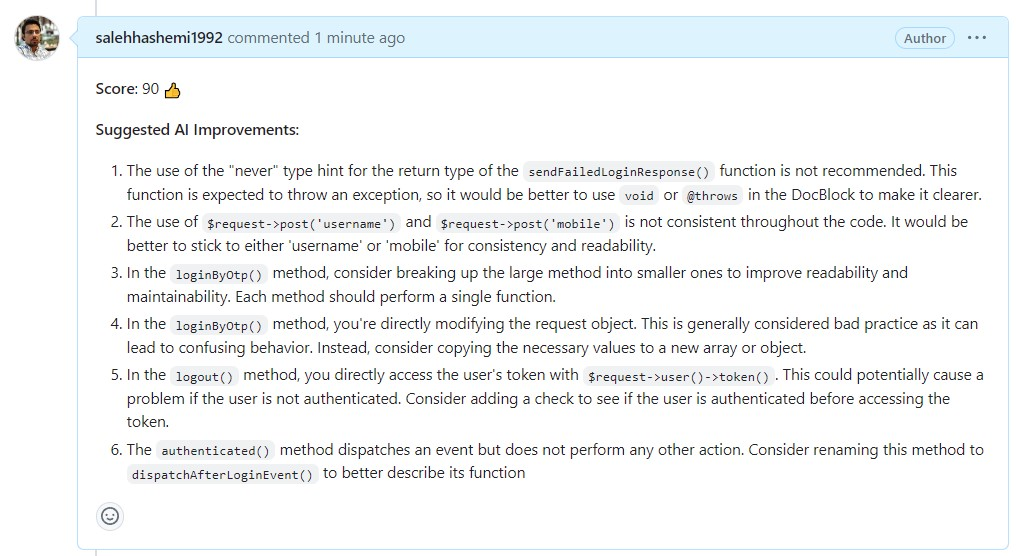
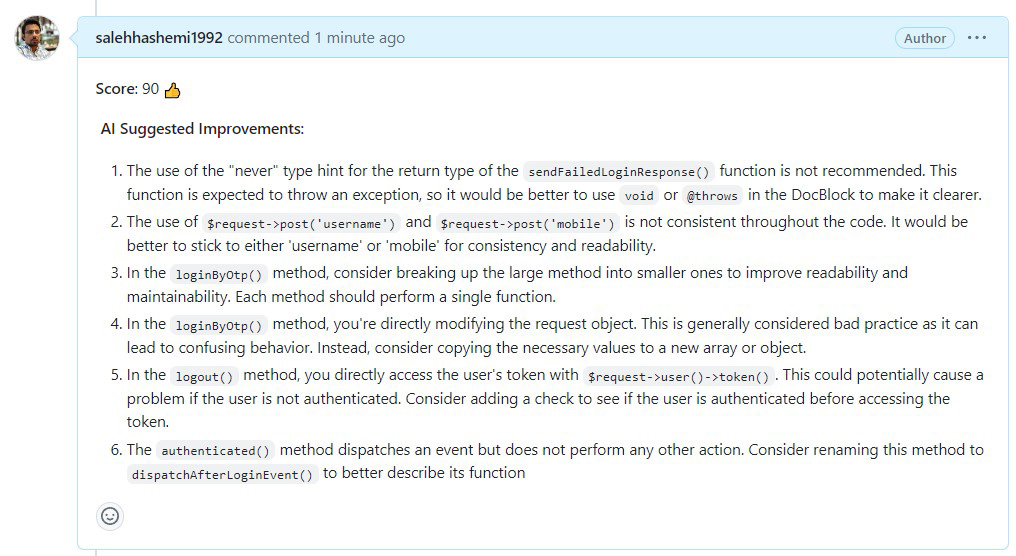
fix typo

Changed region(s): [[0.0915, 0.214, 0.3051, 0.2446]]

diff --git a/src/main.php b/src/main.php
@@ -213,7 +213,7 @@ function generatePrompt(string $prChanges): string
 
     $prompt .= "Please format your response as follows:\n";
     $prompt .= "**Score**: [Your score here and an emoji]\n\n";
-    $prompt .= "**Suggested AI Improvements:**\n";
+    $prompt .= "**AI Suggested Improvements:**\n";
     $prompt .= "1. [First improvement suggestion]\n";
     $prompt .= "2. [Second improvement suggestion]\n";
     $prompt .= "...";
